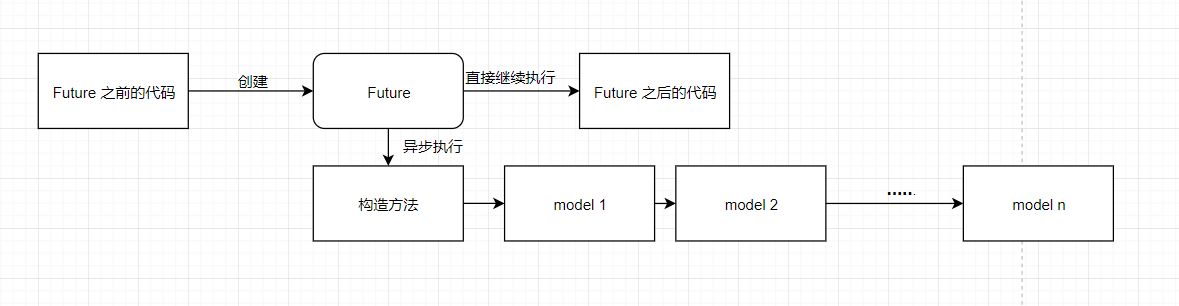
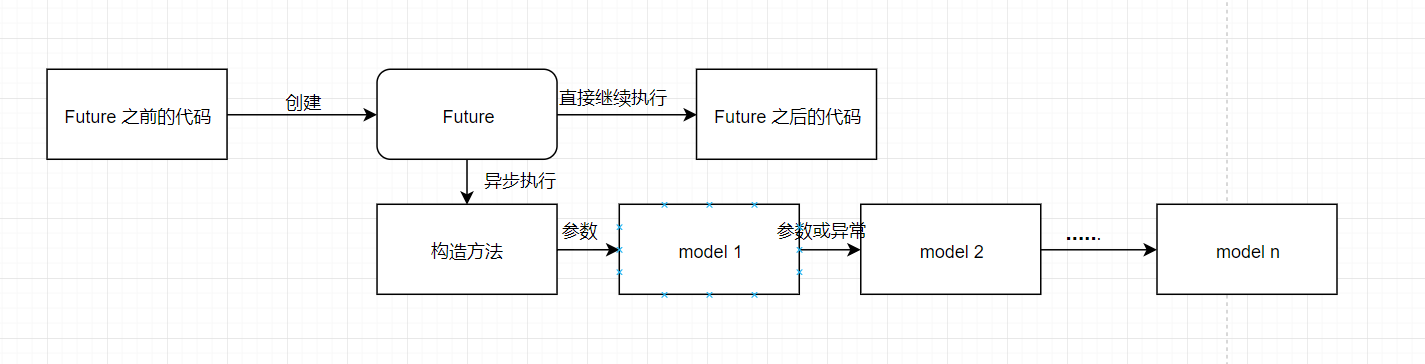
Site updated: 2020-06-19 20:52:28

diff --git a/2020/06/19/1592560474/index.html b/2020/06/19/1592560474/index.html
@@ -92,8 +92,11 @@
 <meta property="og:image" content="http://heyanle.com/2020/06/19/1592560474/5.png">
 <meta property="og:image" content="http://heyanle.com/2020/06/19/1592560474/6.png">
 <meta property="og:image" content="http://heyanle.com/2020/06/19/1592560474/7.png">
+<meta property="og:image" content="http://heyanle.com/2020/06/19/1592560474/8.png">
+<meta property="og:image" content="http://heyanle.com/2020/06/19/1592560474/9.png">
+<meta property="og:image" content="http://heyanle.com/2020/06/19/1592560474/10.png">
 <meta property="article:published_time" content="2020-06-19T09:55:38.000Z">
-<meta property="article:modified_time" content="2020-06-19T12:18:57.740Z">
+<meta property="article:modified_time" content="2020-06-19T12:52:09.617Z">
 <meta property="article:author" content="何言">
 <meta property="article:tag" content="异步编程">
 <meta property="article:tag" content="Dart">
@@ -423,10 +426,18 @@
 <p>而因为异常已经被捕获了，所以 <code>then3</code> 也成功的执行，只不过参数丢失。</p>
 <h2 id="运行规则"><a href="#运行规则" class="headerlink" title="运行规则"></a>运行规则</h2><p>同一个 <code>Future</code> 里，无论是 <code>then</code> ，<code>catchError</code> 还是 <code>whenComplete</code>，它的运行顺序都是从上到下的。并且按照以下规则：</p>
 <figure class="highlight plain"><table><tr><td class="gutter"><pre><span class="line">1</span><br><span class="line">2</span><br><span class="line">3</span><br></pre></td><td class="code"><pre><span class="line">遇到 then ，传入上一个 then 或者构造方法的返回值</span><br><span class="line">遇到 whenComplete ，直接执行（不会等到所有 then 都执行完毕）</span><br><span class="line">遇到 catchError ， 判断之前知否有异常，有就执行并捕获，没有就不执行</span><br></pre></td></tr></table></figure>
-<figure class="highlight plain"><table><tr><td class="gutter"><pre><span class="line">1</span><br><span class="line">2</span><br><span class="line">3</span><br><span class="line">4</span><br><span class="line">5</span><br><span class="line">6</span><br><span class="line">7</span><br></pre></td><td class="code"><pre><span class="line">当 then 抛出异常的时候，从下一个 then 开始，直到 then 被捕获，否则所有的 &#96;then&#96; 都不会被执行</span><br><span class="line"></span><br><span class="line">如果在 whenComplete 或者 catchError 里抛出异常，之后的处理和从 then 里抛出异常的处理方法一致</span><br><span class="line"></span><br><span class="line">捕获异常有两种方法，catchError 和 then 的命名参数 onError</span><br><span class="line"></span><br><span class="line">注：then 的命名参数 onError 是捕获之前的异常，其实相当于在 then 之后补了一个 catchError 的语法糖而已。</span><br></pre></td></tr></table></figure>
+<figure class="highlight plain"><table><tr><td class="gutter"><pre><span class="line">1</span><br><span class="line">2</span><br><span class="line">3</span><br><span class="line">4</span><br><span class="line">5</span><br><span class="line">6</span><br><span class="line">7</span><br><span class="line">8</span><br><span class="line">9</span><br></pre></td><td class="code"><pre><span class="line">当 then 抛出异常的时候，从下一个 then 开始，直到 then 被捕获，否则所有的 &#96;then&#96; 都不会被执行</span><br><span class="line"></span><br><span class="line">如果在 whenComplete 或者 catchError 里抛出异常，之后的处理和从 then 里抛出异常的处理方法一致</span><br><span class="line"></span><br><span class="line">捕获异常有两种方法，catchError 和 then 的命名参数 onError</span><br><span class="line"></span><br><span class="line">捕获异常后，之后的 then 参数为 null</span><br><span class="line"></span><br><span class="line">注：then 的命名参数 onError 是捕获之前的异常，其实相当于在 then 之后补了一个 catchError 的语法糖而已。</span><br></pre></td></tr></table></figure>
 <p>运行顺序图解：</p>
 <img src="/2020/06/19/1592560474/7.png" class="[7]">
-<p><code>model</code> 为 <code>then</code> ，<code>catchError</code> 和 <code>whenComplete</code> 三种代码块。具体规则上面有讲解。</p>
+<p><code>model</code> 为 <code>then</code> ，<code>catchError</code> 和 <code>whenComplete</code> 三种代码块。</p>
+<p>每一个 <code>Model</code> 都会将一个参数或者是异常传给下一个 <code>Model</code>，不同 <code>Model</code> 的处理方式不一样</p>
+<p>具体规则如下：</p>
+<p>then：</p>
+<img src="/2020/06/19/1592560474/8.png" class="[8]">
+<p>whenComplete:</p>
+<img src="/2020/06/19/1592560474/9.png" class="[9]">
+<p>catchError:</p>
+<img src="/2020/06/19/1592560474/10.png" class="[10]">
 <h2 id="后记"><a href="#后记" class="headerlink" title="后记"></a>后记</h2><p>这就是 <code>Future</code> 的运行顺序相关的内容了。这是 <code>Flutter</code> 异步编程的第一个内容，其实在真正使用中还有很多其他的技巧。具体就等下一章吧。</p>
 
       

diff --git a/index.html b/index.html
@@ -414,10 +414,18 @@
 <p>而因为异常已经被捕获了，所以 <code>then3</code> 也成功的执行，只不过参数丢失。</p>
 <h2 id="运行规则"><a href="#运行规则" class="headerlink" title="运行规则"></a>运行规则</h2><p>同一个 <code>Future</code> 里，无论是 <code>then</code> ，<code>catchError</code> 还是 <code>whenComplete</code>，它的运行顺序都是从上到下的。并且按照以下规则：</p>
 <figure class="highlight plain"><table><tr><td class="gutter"><pre><span class="line">1</span><br><span class="line">2</span><br><span class="line">3</span><br></pre></td><td class="code"><pre><span class="line">遇到 then ，传入上一个 then 或者构造方法的返回值</span><br><span class="line">遇到 whenComplete ，直接执行（不会等到所有 then 都执行完毕）</span><br><span class="line">遇到 catchError ， 判断之前知否有异常，有就执行并捕获，没有就不执行</span><br></pre></td></tr></table></figure>
-<figure class="highlight plain"><table><tr><td class="gutter"><pre><span class="line">1</span><br><span class="line">2</span><br><span class="line">3</span><br><span class="line">4</span><br><span class="line">5</span><br><span class="line">6</span><br><span class="line">7</span><br></pre></td><td class="code"><pre><span class="line">当 then 抛出异常的时候，从下一个 then 开始，直到 then 被捕获，否则所有的 &#96;then&#96; 都不会被执行</span><br><span class="line"></span><br><span class="line">如果在 whenComplete 或者 catchError 里抛出异常，之后的处理和从 then 里抛出异常的处理方法一致</span><br><span class="line"></span><br><span class="line">捕获异常有两种方法，catchError 和 then 的命名参数 onError</span><br><span class="line"></span><br><span class="line">注：then 的命名参数 onError 是捕获之前的异常，其实相当于在 then 之后补了一个 catchError 的语法糖而已。</span><br></pre></td></tr></table></figure>
+<figure class="highlight plain"><table><tr><td class="gutter"><pre><span class="line">1</span><br><span class="line">2</span><br><span class="line">3</span><br><span class="line">4</span><br><span class="line">5</span><br><span class="line">6</span><br><span class="line">7</span><br><span class="line">8</span><br><span class="line">9</span><br></pre></td><td class="code"><pre><span class="line">当 then 抛出异常的时候，从下一个 then 开始，直到 then 被捕获，否则所有的 &#96;then&#96; 都不会被执行</span><br><span class="line"></span><br><span class="line">如果在 whenComplete 或者 catchError 里抛出异常，之后的处理和从 then 里抛出异常的处理方法一致</span><br><span class="line"></span><br><span class="line">捕获异常有两种方法，catchError 和 then 的命名参数 onError</span><br><span class="line"></span><br><span class="line">捕获异常后，之后的 then 参数为 null</span><br><span class="line"></span><br><span class="line">注：then 的命名参数 onError 是捕获之前的异常，其实相当于在 then 之后补了一个 catchError 的语法糖而已。</span><br></pre></td></tr></table></figure>
 <p>运行顺序图解：</p>
 <img src="/2020/06/19/1592560474/7.png" class="[7]">
-<p><code>model</code> 为 <code>then</code> ，<code>catchError</code> 和 <code>whenComplete</code> 三种代码块。具体规则上面有讲解。</p>
+<p><code>model</code> 为 <code>then</code> ，<code>catchError</code> 和 <code>whenComplete</code> 三种代码块。</p>
+<p>每一个 <code>Model</code> 都会将一个参数或者是异常传给下一个 <code>Model</code>，不同 <code>Model</code> 的处理方式不一样</p>
+<p>具体规则如下：</p>
+<p>then：</p>
+<img src="/2020/06/19/1592560474/8.png" class="[8]">
+<p>whenComplete:</p>
+<img src="/2020/06/19/1592560474/9.png" class="[9]">
+<p>catchError:</p>
+<img src="/2020/06/19/1592560474/10.png" class="[10]">
 <h2 id="后记"><a href="#后记" class="headerlink" title="后记"></a>后记</h2><p>这就是 <code>Future</code> 的运行顺序相关的内容了。这是 <code>Flutter</code> 异步编程的第一个内容，其实在真正使用中还有很多其他的技巧。具体就等下一章吧。</p>
 
           
